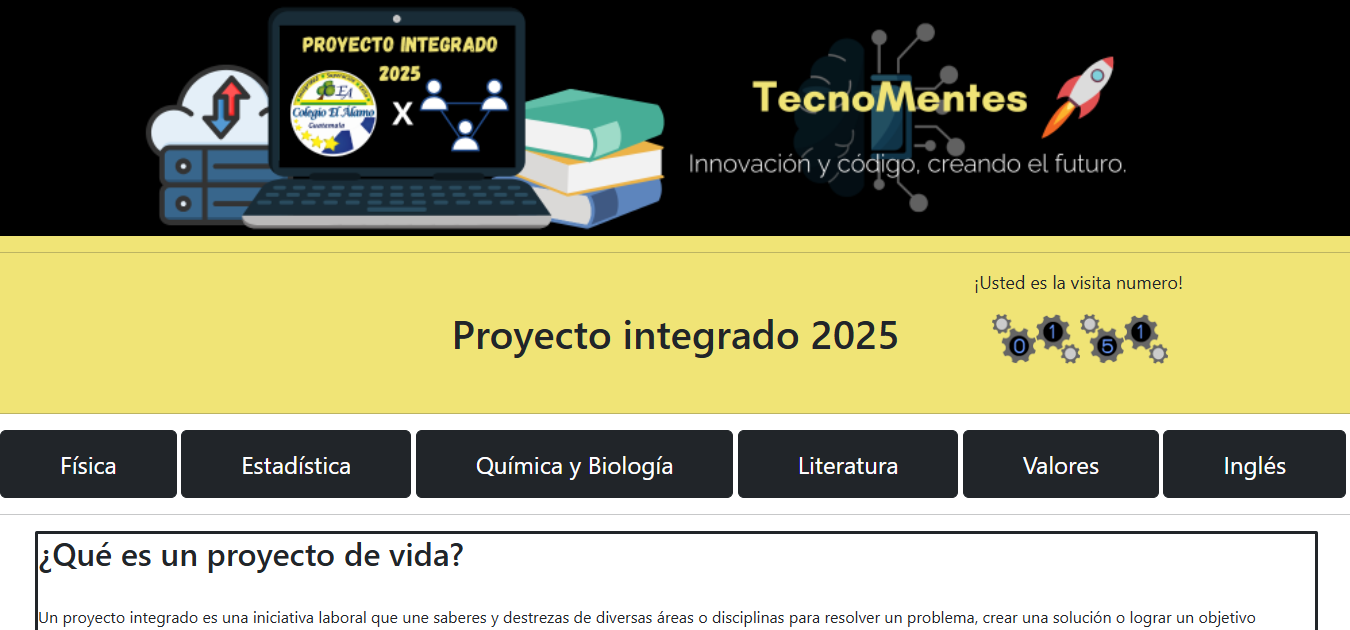
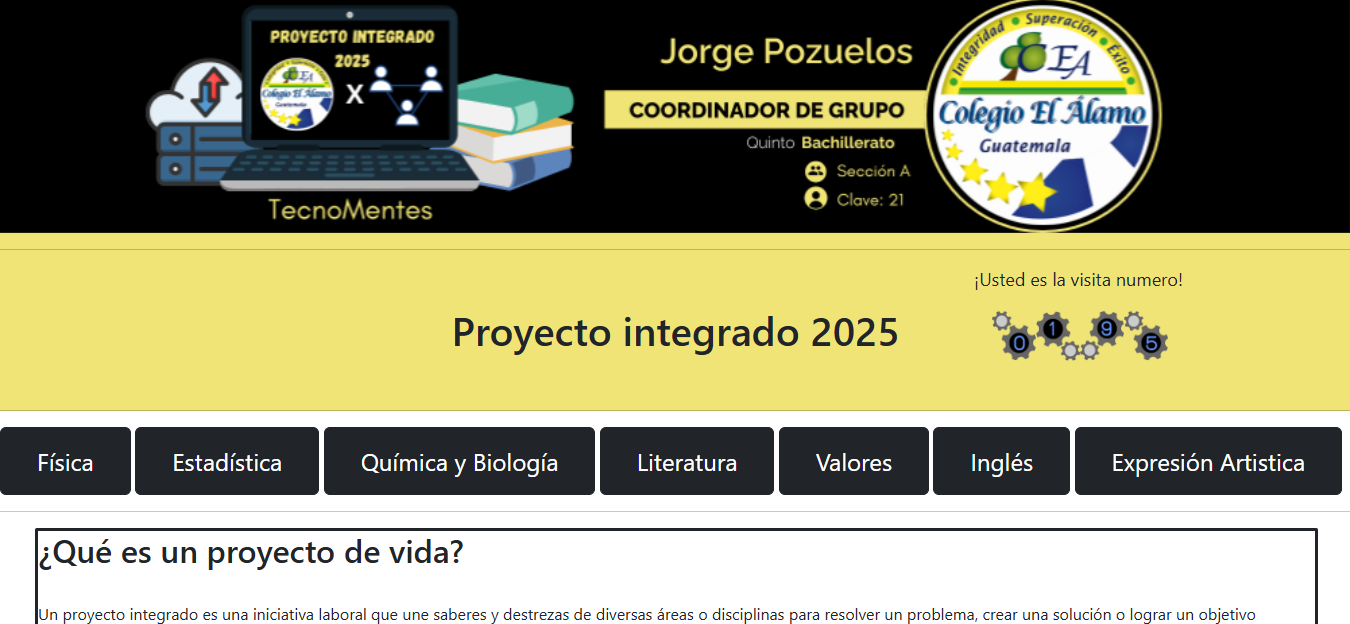
Add files via upload

diff --git a/index.html b/index.html
@@ -11,7 +11,7 @@ header{background-color: rgb(240, 228, 118);}
 article {position: absolute; padding top: 160px; right: 150px;}
 .carousel-item {height: 1000px width: 100%; background-color: black;}
 h1{ text-align:center; padding-top: 40px; padding-bottom: 40px;}
-.Botones a {font-size: 24px; padding: 15px 59px;}
+.Botones a {font-size: 24px; padding: 15px 36px;}
 p {font-size: 18px; position: relative; right: 18px;}
 footer {border: solid; border-radius: 2px; width: 95%; position: absolute; left: 35px;}
 </style>
@@ -52,6 +52,7 @@ footer {border: solid; border-radius: 2px; width: 95%; position: absolute; left:
 <a class="btn btn-dark" href="Literatura.html" role="button">Literatura</a>
 <a class="btn btn-dark" href="Valores.html" role="button">Valores</a>
 <a class="btn btn-dark" href="Ingles.html" role="button">Inglés</a>
+<a class="btn btn-dark" href="artes.html" role="button">Expresión Artistica</a>
 <hr>
 </div>
 <footer>

diff --git a/artes.html b/artes.html
@@ -1,0 +1,22 @@
+<html>
+<head>
+ <title> Expresion Artistica </title> 
+<link href="https://cdn.jsdelivr.net/npm/bootstrap@5.3.3/dist/css/bootstrap.min.css" rel="stylesheet" integrity="sha384-QWTKZyjpPEjISv5WaRU9OFeRpok6YctnYmDr5pNlyT2bRjXh0JMhjY6hW+ALEwIH" crossorigin="anonymous">
+<style>
+.logo {position: absolute; text-align: right; top: 90px; left: 1060px;}
+body {background-color: rgb(240, 228, 118);} 
+a {position: relative; bottom: 50px; left: 27px;}
+</style>
+</head>
+<body>
+<header>
+<hr>
+<img src="Materias\7.png"  width="1000">
+<div class="logo">
+<a href="index.html">
+    <img src="Logo\1.png" alt="" width="200">
+</a>
+</header>
+<hr>
+</body>
+<html>

diff --git a/Químicaybiología.html b/Químicaybiología.html
@@ -8,8 +8,8 @@ header {background-color: rgb(240, 228, 118); padding-bottom: 20px;}
 body {background-color:rgb(40, 49, 110);} 
 a {position: relative; bottom: 50px; left: 27px;}
 .uno {position:  relative; left:15px; top: 20px;}
-.dos {position:  relative; left:730px; bottom: 480px;}
-.tres {position:  relative; left: 340px; bottom: 480px;}
+.dos {position:  absolute; left:730px; top: 250px;}
+.tres {position:  absolute; left: 340px; top: 700px;}
 </style>
 </head>
 <body>
